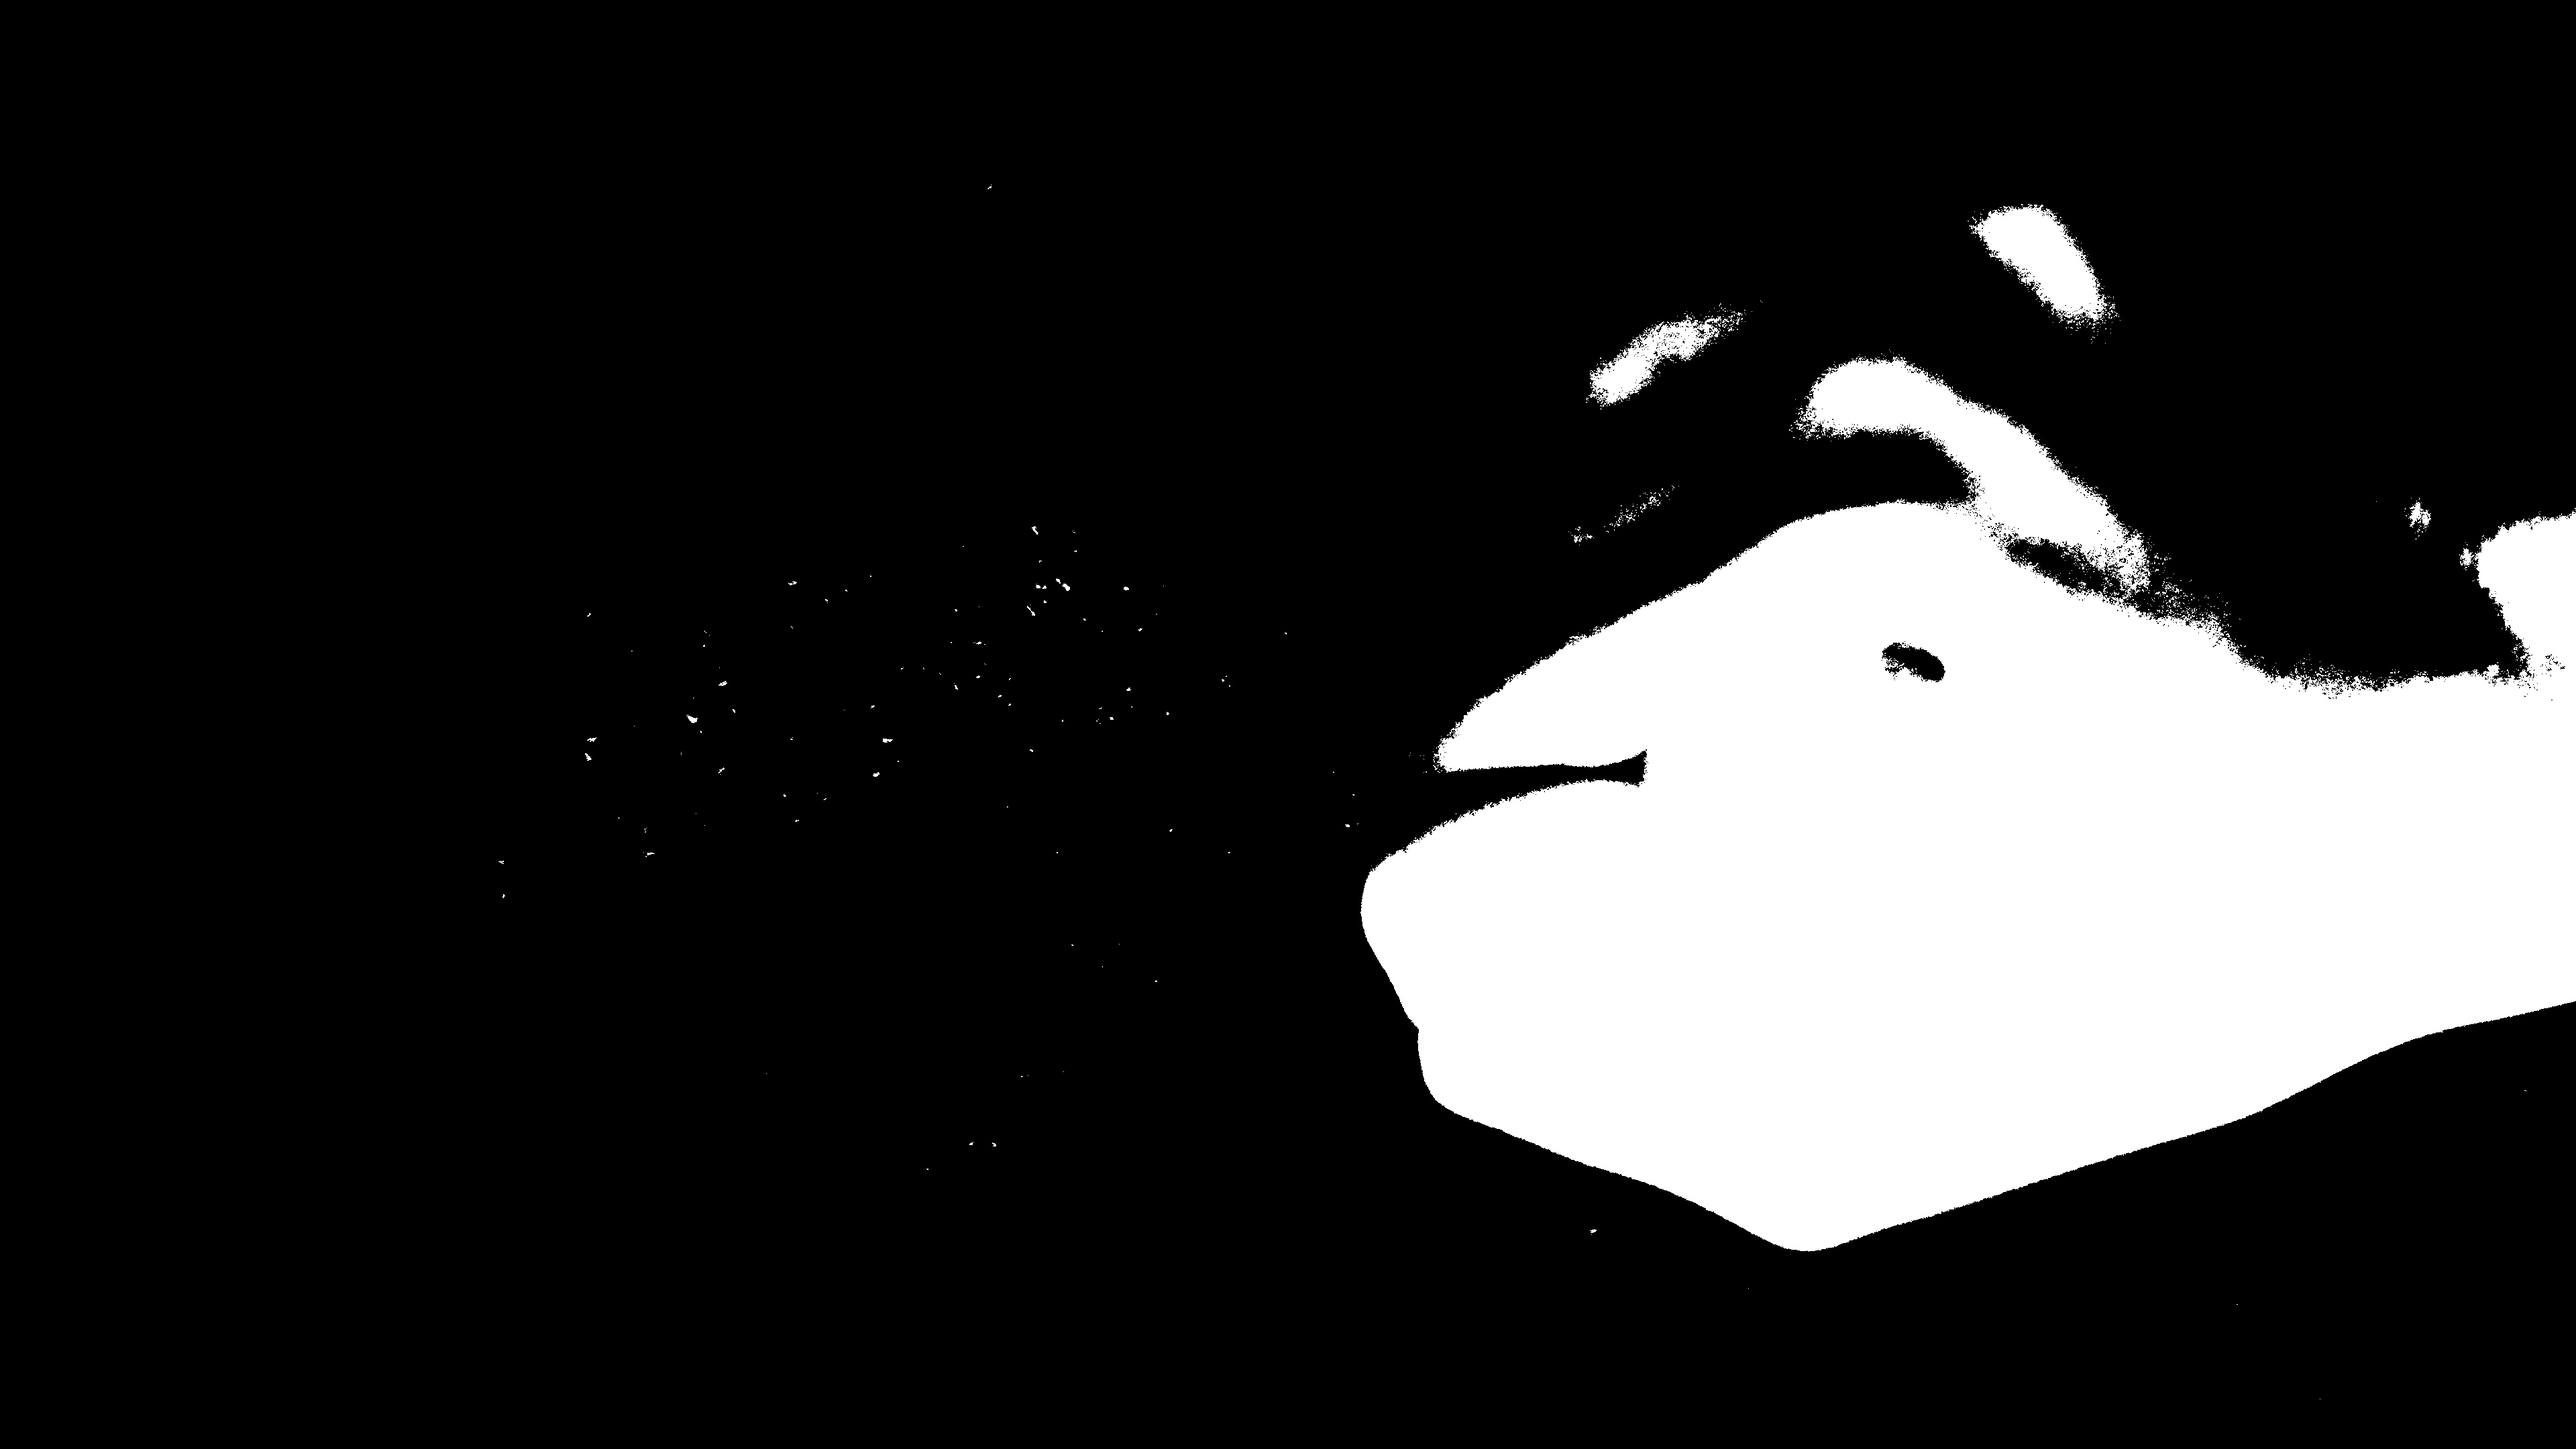
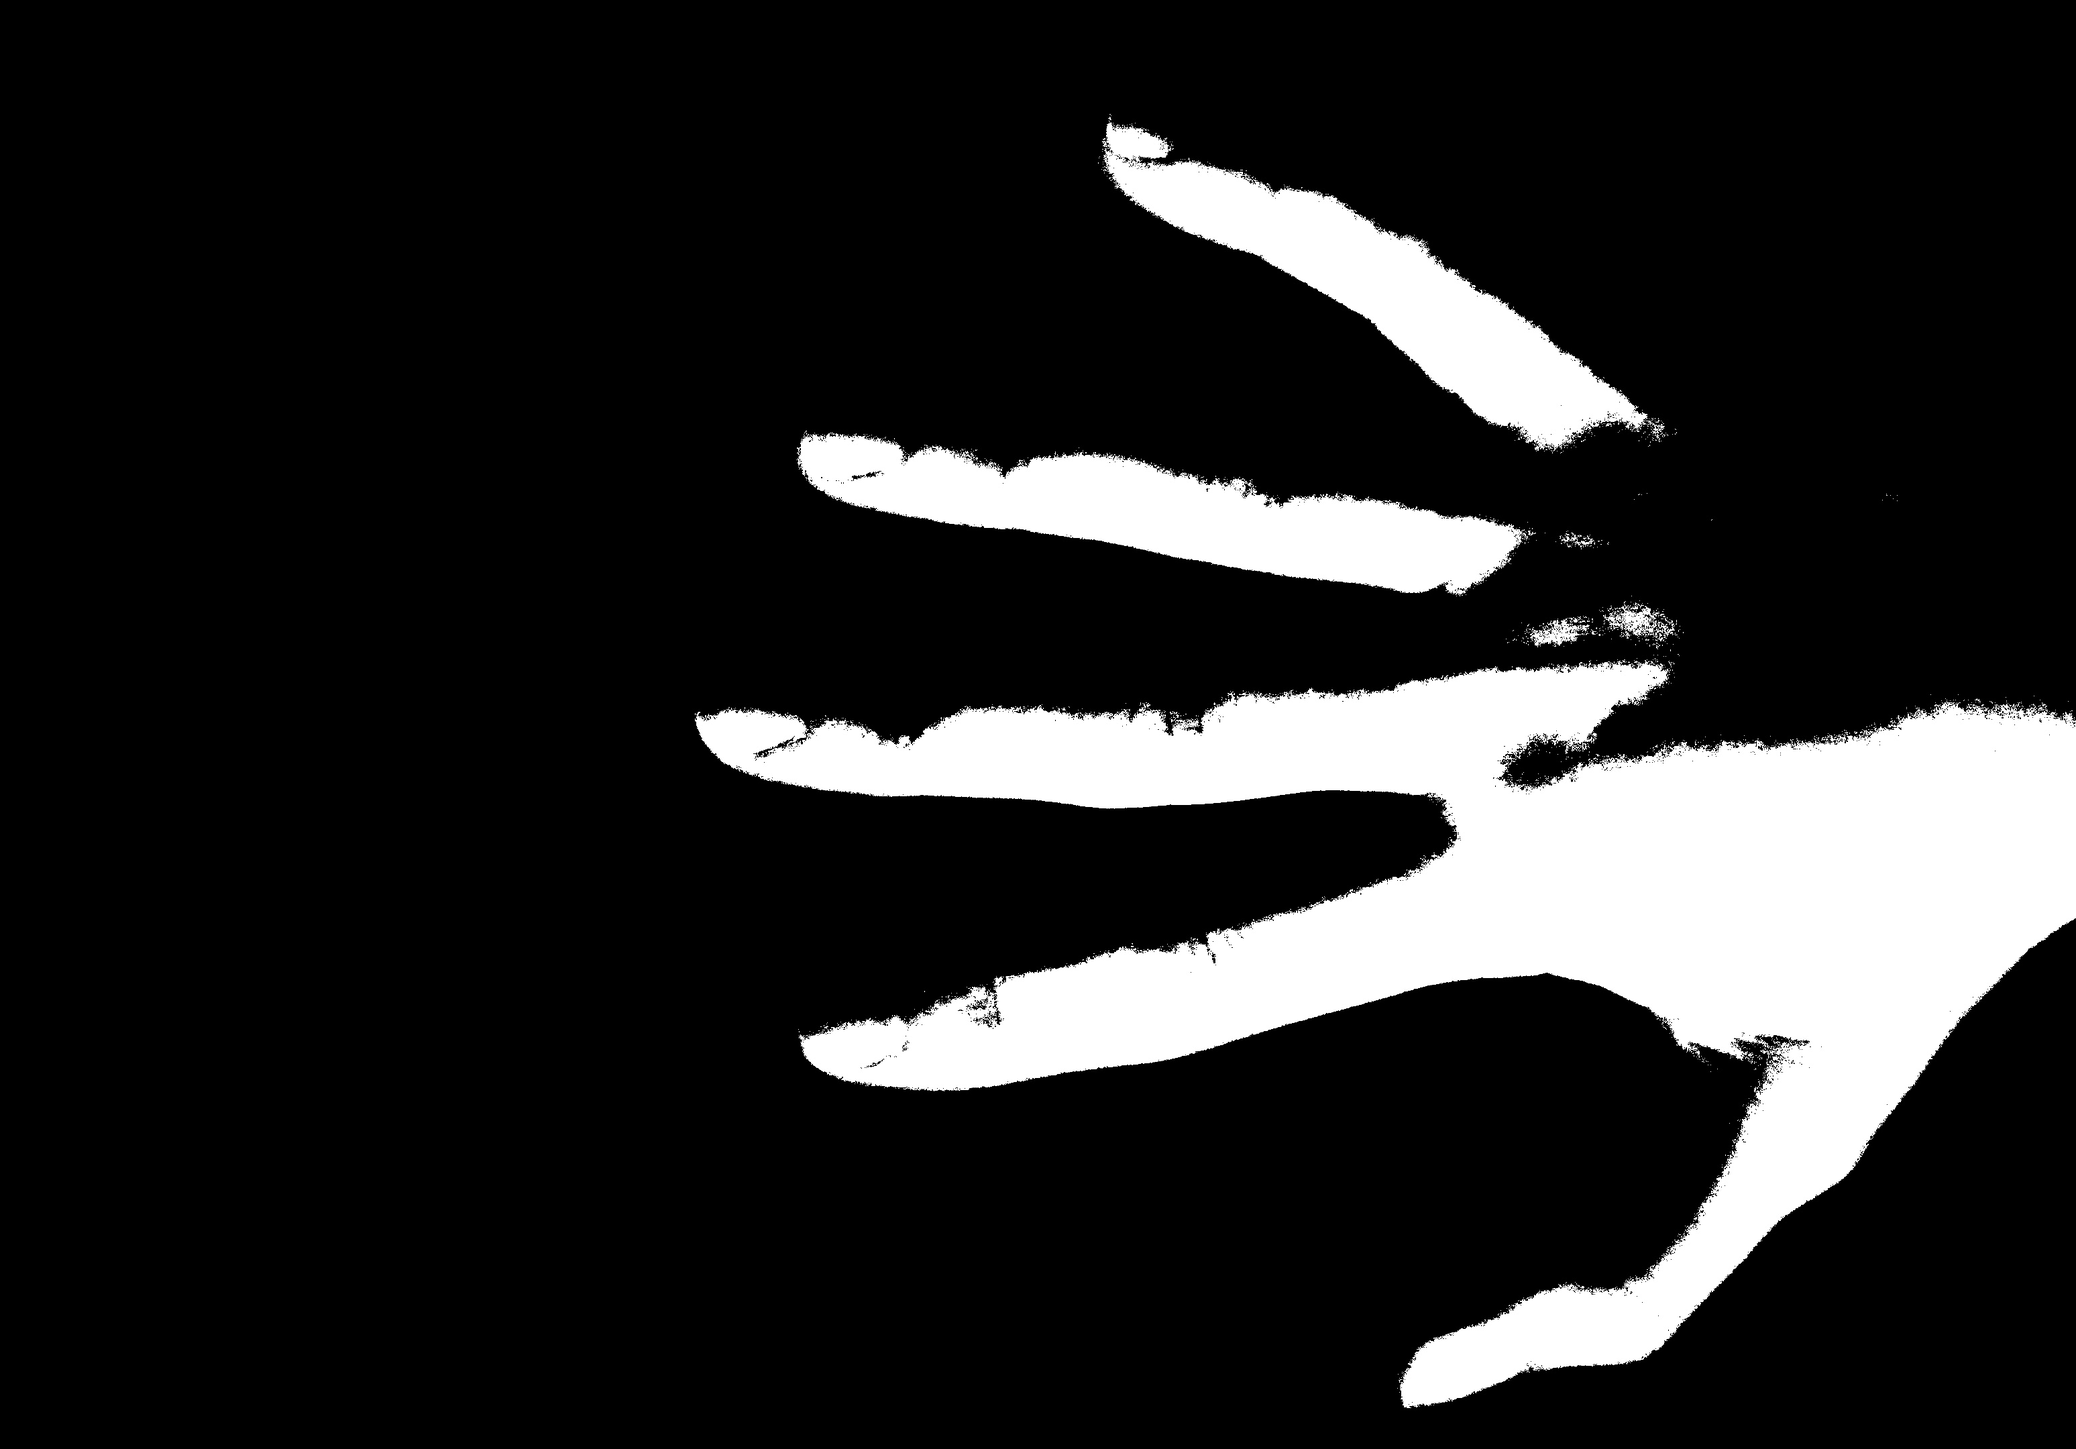
getting center of mass for one moment; x-where and y-where work

Changed region(s): [[0.3412, 0.062, 1.0, 0.9926], [0.9305, 0.6204, 1.0, 0.7134], [0.7444, 0.1241, 0.8375, 0.2171]]

diff --git a/sabinadev/src/DataReduction.java b/sabinadev/src/DataReduction.java
@@ -1,4 +1,6 @@
+import java.util.HashMap;
 import java.util.List;
+import java.util.Map;
 import java.awt.image.BufferedImage;
 import java.io.File;
 import java.lang.*;
@@ -11,6 +13,7 @@ import org.opencv.core.Core;
 import org.opencv.core.CvType;
 import org.opencv.core.Mat;
 import org.opencv.core.MatOfPoint; 
+import org.opencv.core.MatOfPoint2f;
 import org.opencv.core.MatOfRect;
 import org.opencv.core.Point;
 import org.opencv.core.Rect;
@@ -28,13 +31,16 @@ import java.awt.image.DataBufferByte;
  */ 
 
 class ReduceData {
+	// image_description should contain "what", "x_where" and "y_where" 
+	Map<String, String> image_description = new HashMap<String, String>(); 
+	
 	public void run() {
 		System.out.println("\nRunning ReduceData");
 		BufferedImage image = null; 
 		Mat binaryMat = null; 
 		
 		try {
-	         image = ImageIO.read(getClass().getResource("/FIST-CENTER-RIGHT.JPG")); 
+	         image = ImageIO.read(getClass().getResource("/PALM-CENTER-RIGHT.JPG")); 
 
 		} catch (Exception e) {
 	         System.out.println("Errors: " + e.getMessage());
@@ -49,13 +55,14 @@ class ReduceData {
 		// Create an array of isSkin field
 
 		// Determine the center of mass of isSkin field
-		determineCenterOfMass(); 
+		double[] centerOfMass = determineCenterOfMass(); 
 		
 		// Test if skin is palm or first 
 		// TODO
 		
 		// Determine Position of skin
-		// TODO
+		int[] dimensions = {381, 457};
+		determineWhere(dimensions, centerOfMass);
 
 		// Save the visualized detection.
 		String filename = "faceDetection.png";
@@ -121,8 +128,8 @@ class ReduceData {
 	 * Determines the center of mass, (x, y),
 	 * of the binary field of isSkin() bits
 	 */
-	public void determineCenterOfMass() {
-		int[] centerOfMass = null;
+	public double[] determineCenterOfMass() {
+		double[] centerOfMass = new double[10]; 
 		
 		// Find the contours 
 		Mat image = getMat(); 
@@ -130,11 +137,10 @@ class ReduceData {
 	    Mat imageBlurr = new Mat(image.size(), Core.DEPTH_MASK_8U);
 	    Mat imageThresh = new Mat(image.size(), Core.DEPTH_MASK_ALL);
 	    Mat imageCanny = new Mat(image.size(), Core.DEPTH_MASK_ALL);
-	    
+	
 	    Imgproc.cvtColor(image, imageHSV, Imgproc.COLOR_BGR2GRAY);
 	    Imgproc.GaussianBlur(imageHSV, imageBlurr, new Size(5,5), 0);
 	    Imgproc.adaptiveThreshold(imageBlurr, imageThresh, 255,Imgproc.ADAPTIVE_THRESH_MEAN_C, Imgproc.THRESH_BINARY,7, 5);
-
 	    Imgproc.Canny(imageBlurr, imageCanny, 100, 200); 
 	    Highgui.imwrite("edges.jpg",imageCanny);
 	    
@@ -153,24 +159,28 @@ class ReduceData {
 	        System.out.println("contourArea: " + Imgproc.contourArea(contours.get(i)));
 
 	    }   
-	    
-	    
-	  /*  for(int i=0; i< contours.size();i++){
-	        //System.out.println(Imgproc.contourArea(contours.get(i)));
-	        if (Imgproc.contourArea(contours.get(i)) > 50 ){
-	            Rect rect = Imgproc.boundingRect(contours.get(i));
-	            //System.out.println(rect.height);
-	            if (rect.height > 28){
-	            //System.out.println(rect.x +","+rect.y+","+rect.height+","+rect.width);
-	            Core.rectangle(image, new Point(rect.x,rect.height), new Point(rect.y,rect.width),new Scalar(0,0,255));
-	            }
-	        }
-	    }
-	    */
 	    Highgui.imwrite("contours.jpg",mask);
 
 	    // Get the moments 
-		//return centerOfMass;
+	    List<Moments> moments = new ArrayList<Moments>(contours.size());
+	    for (int i = 0; i < contours.size(); i++) {
+	        moments.add(i, Imgproc.moments(contours.get(i), false));
+	    }
+	    System.out.println("Size of moments: " + moments.size());
+	    
+	   //Compute the Center of Mass
+	    List<MatOfPoint2f> mc = new ArrayList<MatOfPoint2f>(contours.size()); 
+	    int x = 0; 
+	    for( int i = 0; i < contours.size(); i++ ){
+	        //mc.add(( moments.get(i).get_m10()/moments.get(i).get_m00(), moments.get(i).get_m01()/moments.get(i).get_m00() ));
+	        double x_coor =  moments.get(i).get_m10()/moments.get(i).get_m00(); 
+	        double y_coor = moments.get(i).get_m01()/moments.get(i).get_m00(); 
+	        centerOfMass[x] = x_coor;
+	        centerOfMass[x+1] = y_coor; 
+	        System.out.println("Moments: " + x_coor + " " + y_coor); 
+	        x = x+2; 
+	    }
+		return centerOfMass;
 	}
 	
 	/*
@@ -184,12 +194,38 @@ class ReduceData {
 	/*
 	 * Determine the position of the skin
 	 */
-	public void determineWhere(){
-		// TODO
+	public void determineWhere(int[] dimensions, double[] centerOfMass){
+		// Compute x-location
+		int x_middle = (int)dimensions[0]/2; 
+		int left_bound = (int)(x_middle-(0.05*x_middle));
+		int right_bound = (int)(x_middle+(0.05*x_middle));
+		
+		if(centerOfMass[0]<left_bound){
+			image_description.put("x-where", "left");
+		}else if(centerOfMass[0] > right_bound){
+			image_description.put("x-where", "right");
+		}else{
+			image_description.put("x-where", "center");
+		}
+		
+		// Compute y-location
+		int y_middle = (int)dimensions[1]/2; 
+		int upper_bound = (int)(y_middle-(0.05*y_middle));
+		int lower_bound = (int)(y_middle+(0.05*y_middle)); 
+		if(centerOfMass[1]<upper_bound){
+			image_description.put("y-where", "upper");
+		}else if(centerOfMass[0] > lower_bound){
+			image_description.put("y-where", "lower");
+		}else{
+			image_description.put("y-where", "center");
+		}
+		
+		System.out.println("x-where: " + image_description.get("x-where")); 
+		System.out.println("y-where: " + image_description.get("y-where")); 
 	}
 	
 	public Mat getMat(){
-		Mat image = Highgui.imread(getClass().getResource("/PALM-LOWER-CENTER.JPG").getPath());
+		Mat image = Highgui.imread(getClass().getResource("/palm.jpg").getPath());
 		return image; 
 	}
 }
@@ -207,7 +243,6 @@ public class DataReduction {
 		System.loadLibrary(Core.NATIVE_LIBRARY_NAME);
 		new ReduceData().run();
 		System.out.println("After library.");
-
 	}
 
 }
